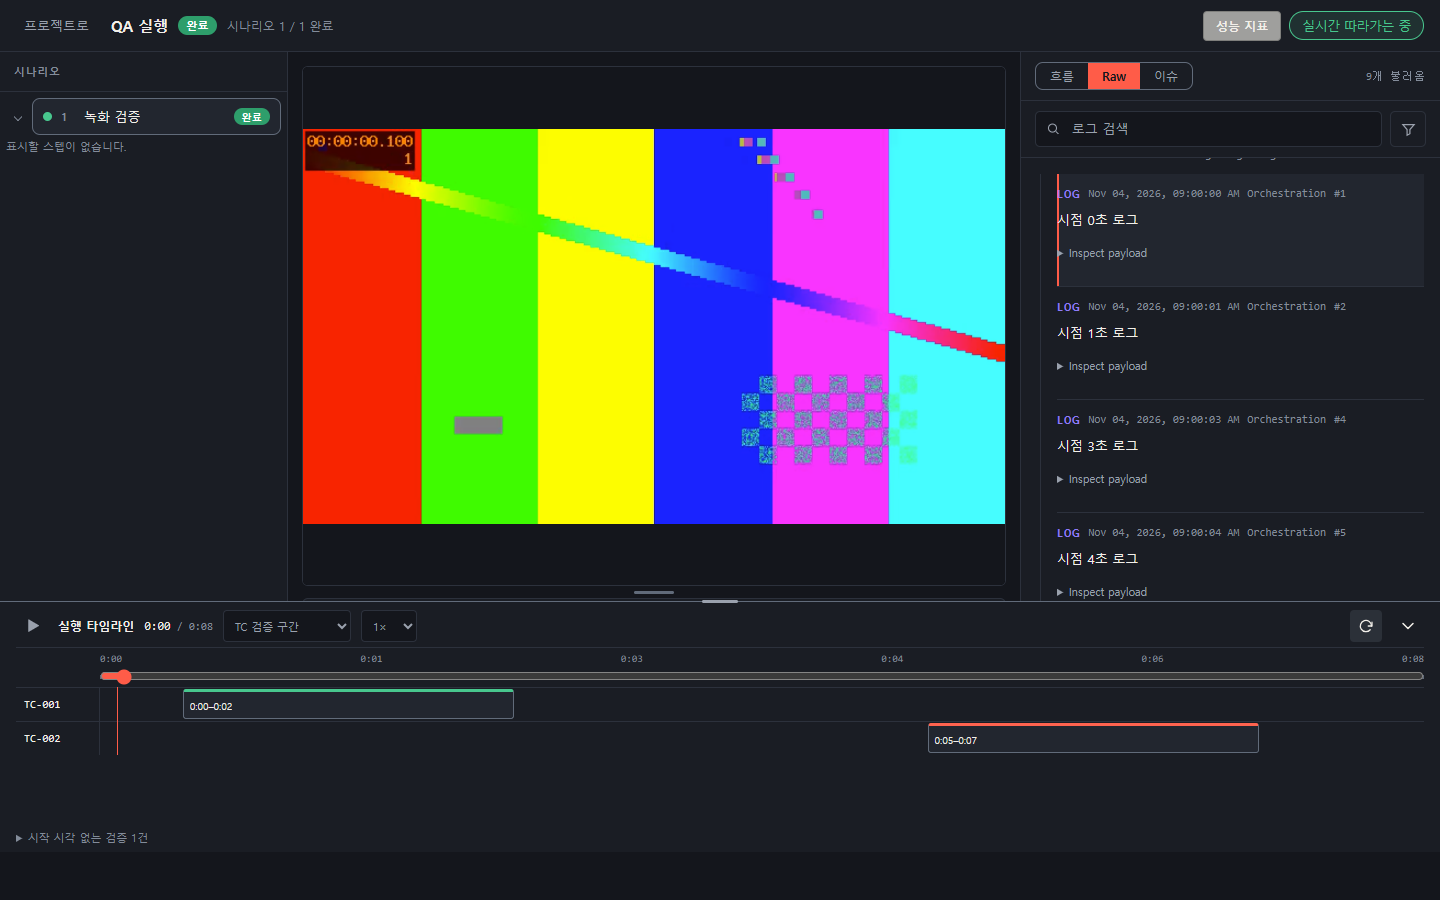
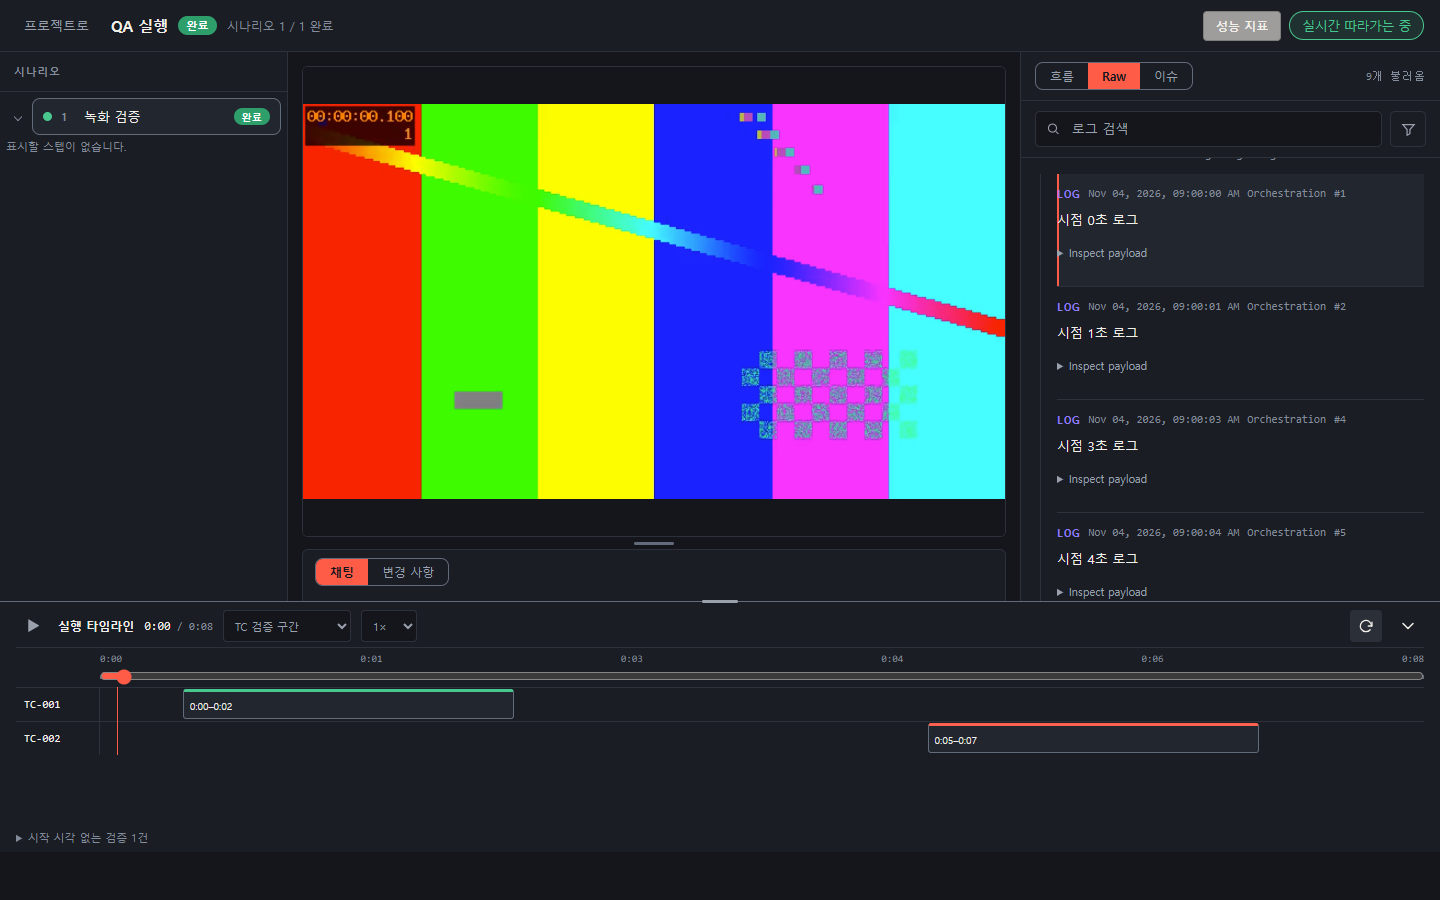
fix(qa): 타임라인 드래그 접기와 하단 본문 공간 확보

Changed region(s): [[0.1875, 0.0933, 0.7188, 0.6533], [0.3125, 0.4356, 0.375, 0.4978]]

diff --git a/src/qa/QaExecutionTimeline.tsx b/src/qa/QaExecutionTimeline.tsx
@@ -38,26 +38,29 @@ export function QaExecutionTimeline({ bounds, timestamp, playback, attempts, pla
   const current = ranges.filter(({ range }) => timestamp >= range.start && timestamp < range.end)
   const unknown = attempts.filter(attempt => attempt.startedAt === null)
   return <section ref={panel} className={`qa-execution-timeline${collapsed ? ' qa-execution-timeline--collapsed' : ''}`} aria-label={copy.timeline}>
-    <div className="qa-timeline-resize" role="separator" tabIndex={0} aria-label={copy.resize} aria-orientation="horizontal" aria-valuemin={64} aria-valuemax={maximumHeight} aria-valuenow={shownHeight} data-resizing={resizing}
+    <div className="qa-timeline-resize" role="separator" tabIndex={0} aria-label={copy.resize} aria-orientation="horizontal" aria-valuemin={0} aria-valuemax={maximumHeight} aria-valuenow={collapsed ? 0 : shownHeight} data-resizing={resizing}
       onPointerDown={event => {
         if (event.button !== 0) return
         event.preventDefault()
         event.currentTarget.setPointerCapture(event.pointerId)
-        drag.current = { y: event.clientY, height: collapsed ? 64 : shownHeight }
+        drag.current = { y: event.clientY, height: collapsed ? 0 : shownHeight }
         setResizing(true)
       }}
       onPointerMove={event => {
         if (!drag.current) return
-        if (Math.abs(event.clientY - drag.current.y) > 3) setCollapsed(false)
-        resizeTo(drag.current.height + drag.current.y - event.clientY)
+        if (Math.abs(event.clientY - drag.current.y) <= 3) return
+        const nextHeight = drag.current.height + drag.current.y - event.clientY
+        setCollapsed(nextHeight <= 24)
+        if (nextHeight > 24) resizeTo(nextHeight)
       }}
       onPointerUp={event => { drag.current = null; setResizing(false); event.currentTarget.releasePointerCapture(event.pointerId) }}
       onLostPointerCapture={() => { drag.current = null; setResizing(false) }}
       onKeyDown={event => {
         if (!['ArrowUp', 'ArrowDown', 'Home', 'End'].includes(event.key)) return
         event.preventDefault()
+        if (event.key === 'ArrowDown' && (collapsed || shownHeight === 64)) { setCollapsed(true); return }
         setCollapsed(false)
-        resizeTo(event.key === 'Home' ? 64 : event.key === 'End' ? maximumHeight : shownHeight + (event.key === 'ArrowUp' ? 24 : -24))
+        resizeTo(event.key === 'Home' ? 64 : event.key === 'End' ? maximumHeight : collapsed ? 64 : shownHeight + (event.key === 'ArrowUp' ? 24 : -24))
       }}><span aria-hidden="true" /></div>
     <header className="qa-execution-head">
       <button className="qa-icon-button" type="button" disabled={!playable} aria-label={playing ? evidence.pause : evidence.play} onClick={onTogglePlay}>

diff --git a/src/qa/qaReplay.css b/src/qa/qaReplay.css
@@ -117,6 +117,7 @@
   .qa-timeline-zoom { width:48px; }
 }
 .qa-replay-timeline-host { position:absolute; bottom:0; left:0; right:0; z-index:6; }
+.qa-console:has(.qa-execution-timeline) .qa-console-grid { margin-bottom:49px; }
 .qa-timeline-resize { position:absolute; top:-7px; left:0; right:0; height:14px; cursor:row-resize; touch-action:none; z-index:3; }
 .qa-timeline-resize > span { position:absolute; left:50%; top:5px; transform:translateX(-50%); width:36px; height:3px; border-radius:2px; background:var(--color-text-secondary); }
 .qa-timeline-resize:hover > span, .qa-timeline-resize[data-resizing='true'] > span { background:var(--color-action-primary); }

diff --git a/.plan/general/2026-11-04-qa-replay-log-navigation.md b/.plan/general/2026-11-04-qa-replay-log-navigation.md
@@ -55,3 +55,5 @@ origin/develop의 evaluationApi.playback/attempts가 기존 서버 녹화와 실
 타임라인을 시나리오를 포함한 전체 영역 아래로 이동했습니다. 경계선의 SVG 버튼으로 접고 펼치며 시간축을 확대할 수 있습니다. 동시 검증은 TC별 track, 같은 TC의 겹친 반복 검증은 lane으로 분리합니다. Raw는 검색창과 필터 아이콘만 두고 cheat·behavior 요약을 숨깁니다. 검색 시 과거 로그를 자동 조회하고 시점 이동은 가까운 verdict cursor부터 조회합니다. 영상 프레임 시간으로 bar를 갱신하며 이전 video 이벤트는 무시합니다. Chromium30개와 전체1626개 테스트로 확인했습니다.
 
 사용자 정정에 따라 타임라인 경계에서 드래그 높이 조절과 SVG 접기·펼치기를 함께 지원합니다. 타임라인은 하단 overlay로 표시하며 기존 화면 위치와 크기는 유지합니다. 추가 Chromium 검증을 포함해35개가 통과했습니다.
+
+최종 반영: 드래그로 접기·펼치기를 지원합니다. 본문은 접힌 bar49px만큼 공간을 확보하고 펼친 타임라인은 overlay로 유지합니다. 추가한 브라우저 검증을 포함해39개가 통과했습니다.

diff --git a/.plan/assets/qa-replay/README.md b/.plan/assets/qa-replay/README.md
@@ -10,7 +10,7 @@
 
 ## 결과
 
-Chromium 화면 회귀 36개가 통과했습니다.
+Chromium 화면 회귀 39개가 통과했습니다.
 
 - 기존 영상 로드, TC 반복 시도와 시작 시각 없는 attempt 표시.
 - pulse 기본 제외·포함 전환, 메시지 필터·payload find와 Enter 이동.
@@ -40,3 +40,5 @@ Chromium 화면 회귀 36개가 통과했습니다.
 타임라인은 하단 overlay로 표시합니다. 위로 높이를 늘려도 기존 시나리오·영상·로그 레이아웃을 밀지 않습니다.
 
 드래그 손잡이는 경계선의 얇은 선으로 표시하고 접기 버튼은 오른쪽 도구 모음에 둡니다. 영상 누락 구간 수는 표시하지 않으며 해당 시점을 선택하면 영상 영역에서 안내합니다.
+
+아래로 드래그하면 접히고 접힌 상태에서 위로 드래그하면 펼쳐집니다. 접힌 실행 바49px만큼 본문 공간을 확보하며, 추가로 펼쳐지는 영역은 overlay입니다. 브라우저에서 본문 하단과 접힌 bar 상단이 일치하는지 확인했습니다.
